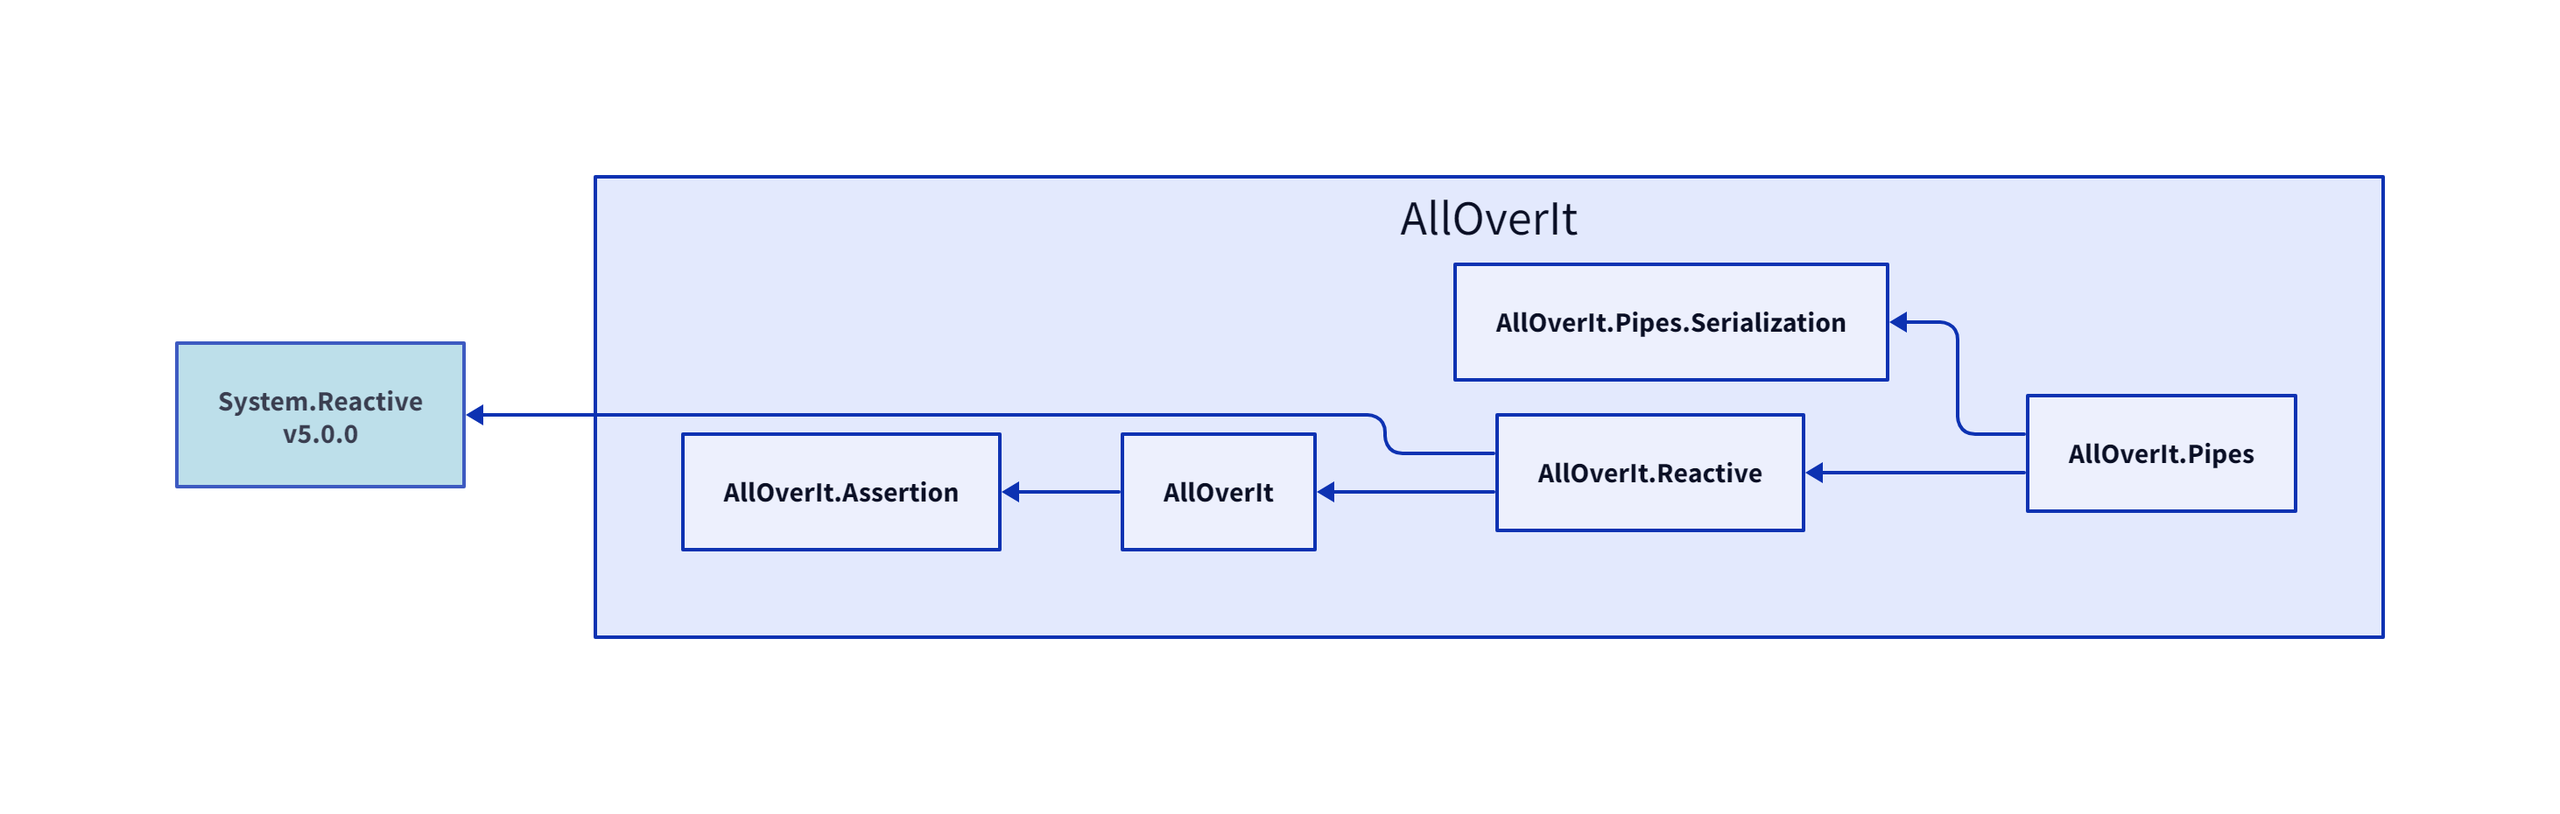
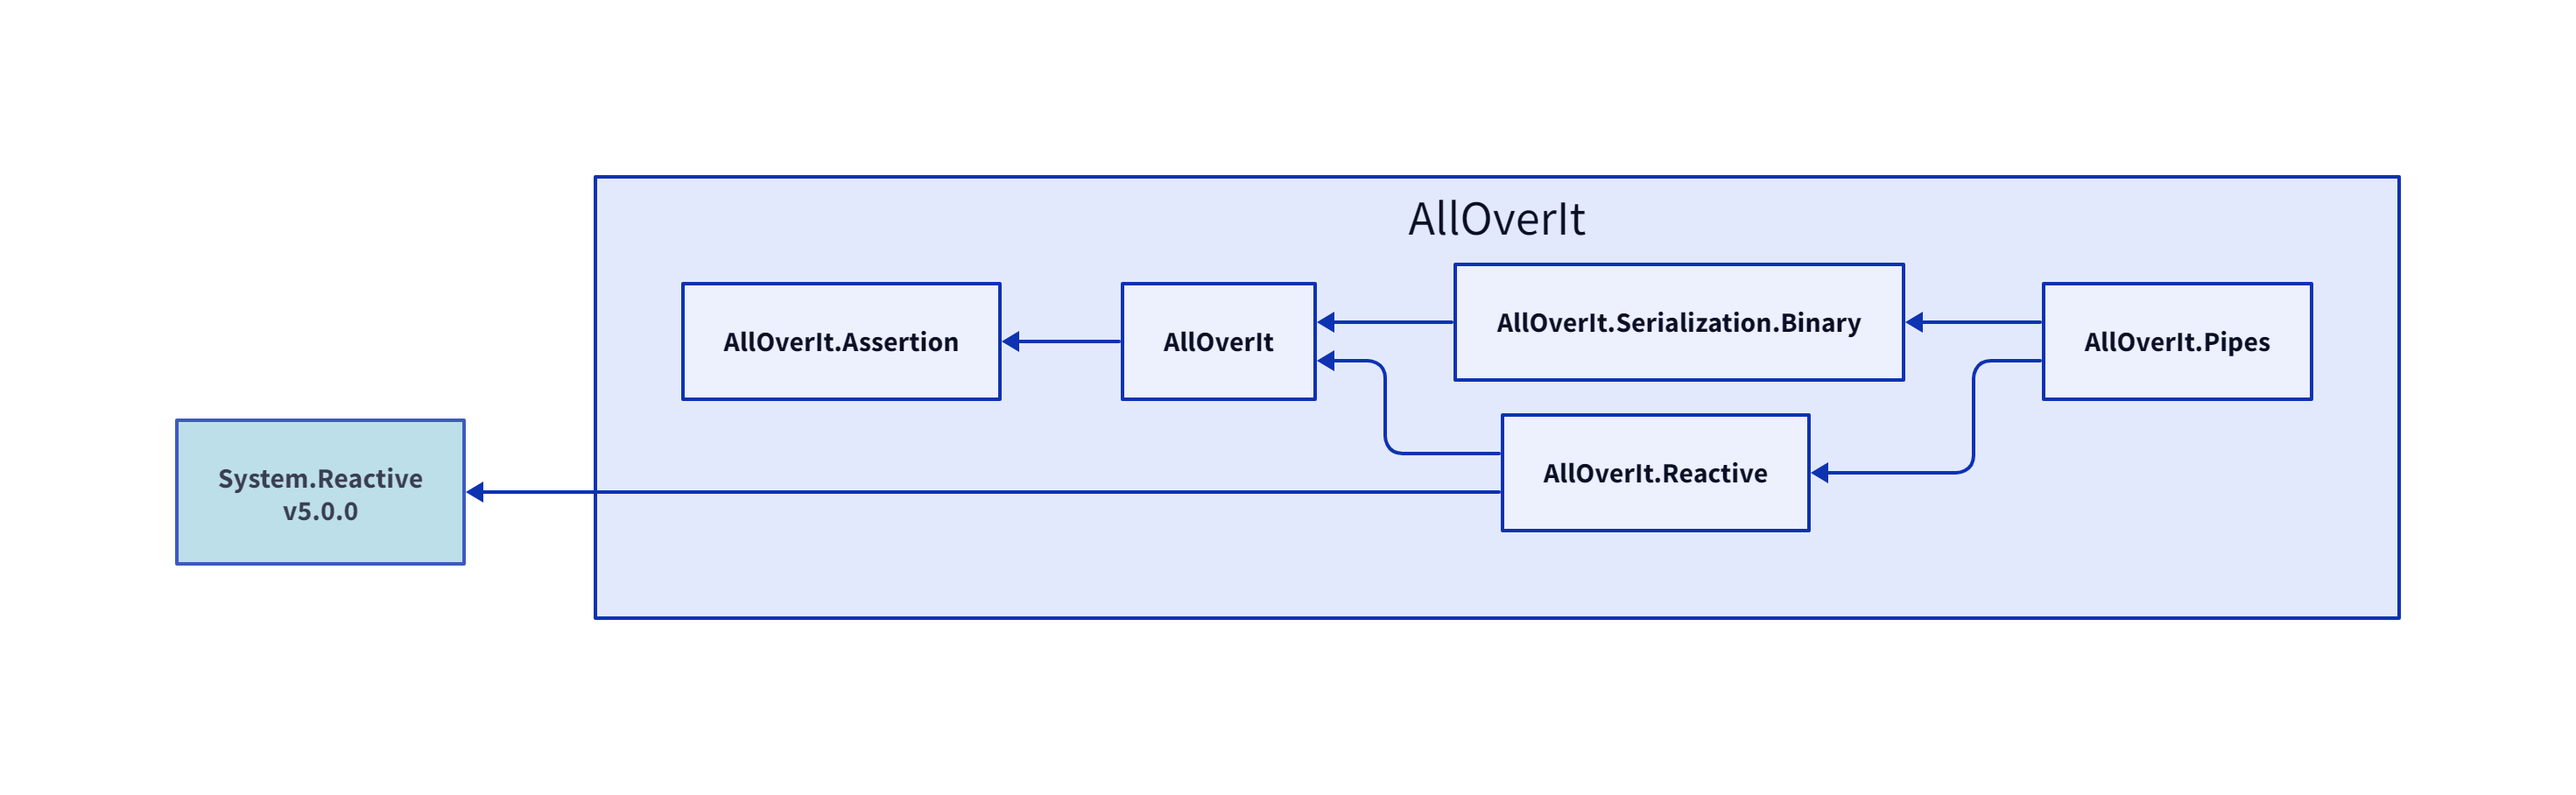
Dependency diagram updates

diff --git a/Docs/Dependencies/summary.md b/Docs/Dependencies/summary.md
@@ -351,40 +351,9 @@
 
 * AllOverIt
 * AllOverIt.Assertion
-* AllOverIt.Pipes.Serialization
 * AllOverIt.Reactive
-* System.Reactive v5.0.0
-
-<br>
-
----
-
-<br>
-
-## AllOverIt.Pipes.Serialization
-
-![](https://img.shields.io/badge/.NET-7.0-55A9EE.svg) ![](https://img.shields.io/badge/.NET-6.0-FF8C67.svg)
-
-### Dependencies
-
-* None
-
-<br>
-
----
-
-<br>
-
-## AllOverIt.Pipes.Serialization.Binary
-
-![](https://img.shields.io/badge/.NET-7.0-55A9EE.svg) ![](https://img.shields.io/badge/.NET-6.0-FF8C67.svg)
-
-### Dependencies
-
-* AllOverIt
-* AllOverIt.Assertion
-* AllOverIt.Pipes.Serialization
 * AllOverIt.Serialization.Binary
+* System.Reactive v5.0.0
 
 <br>
 
